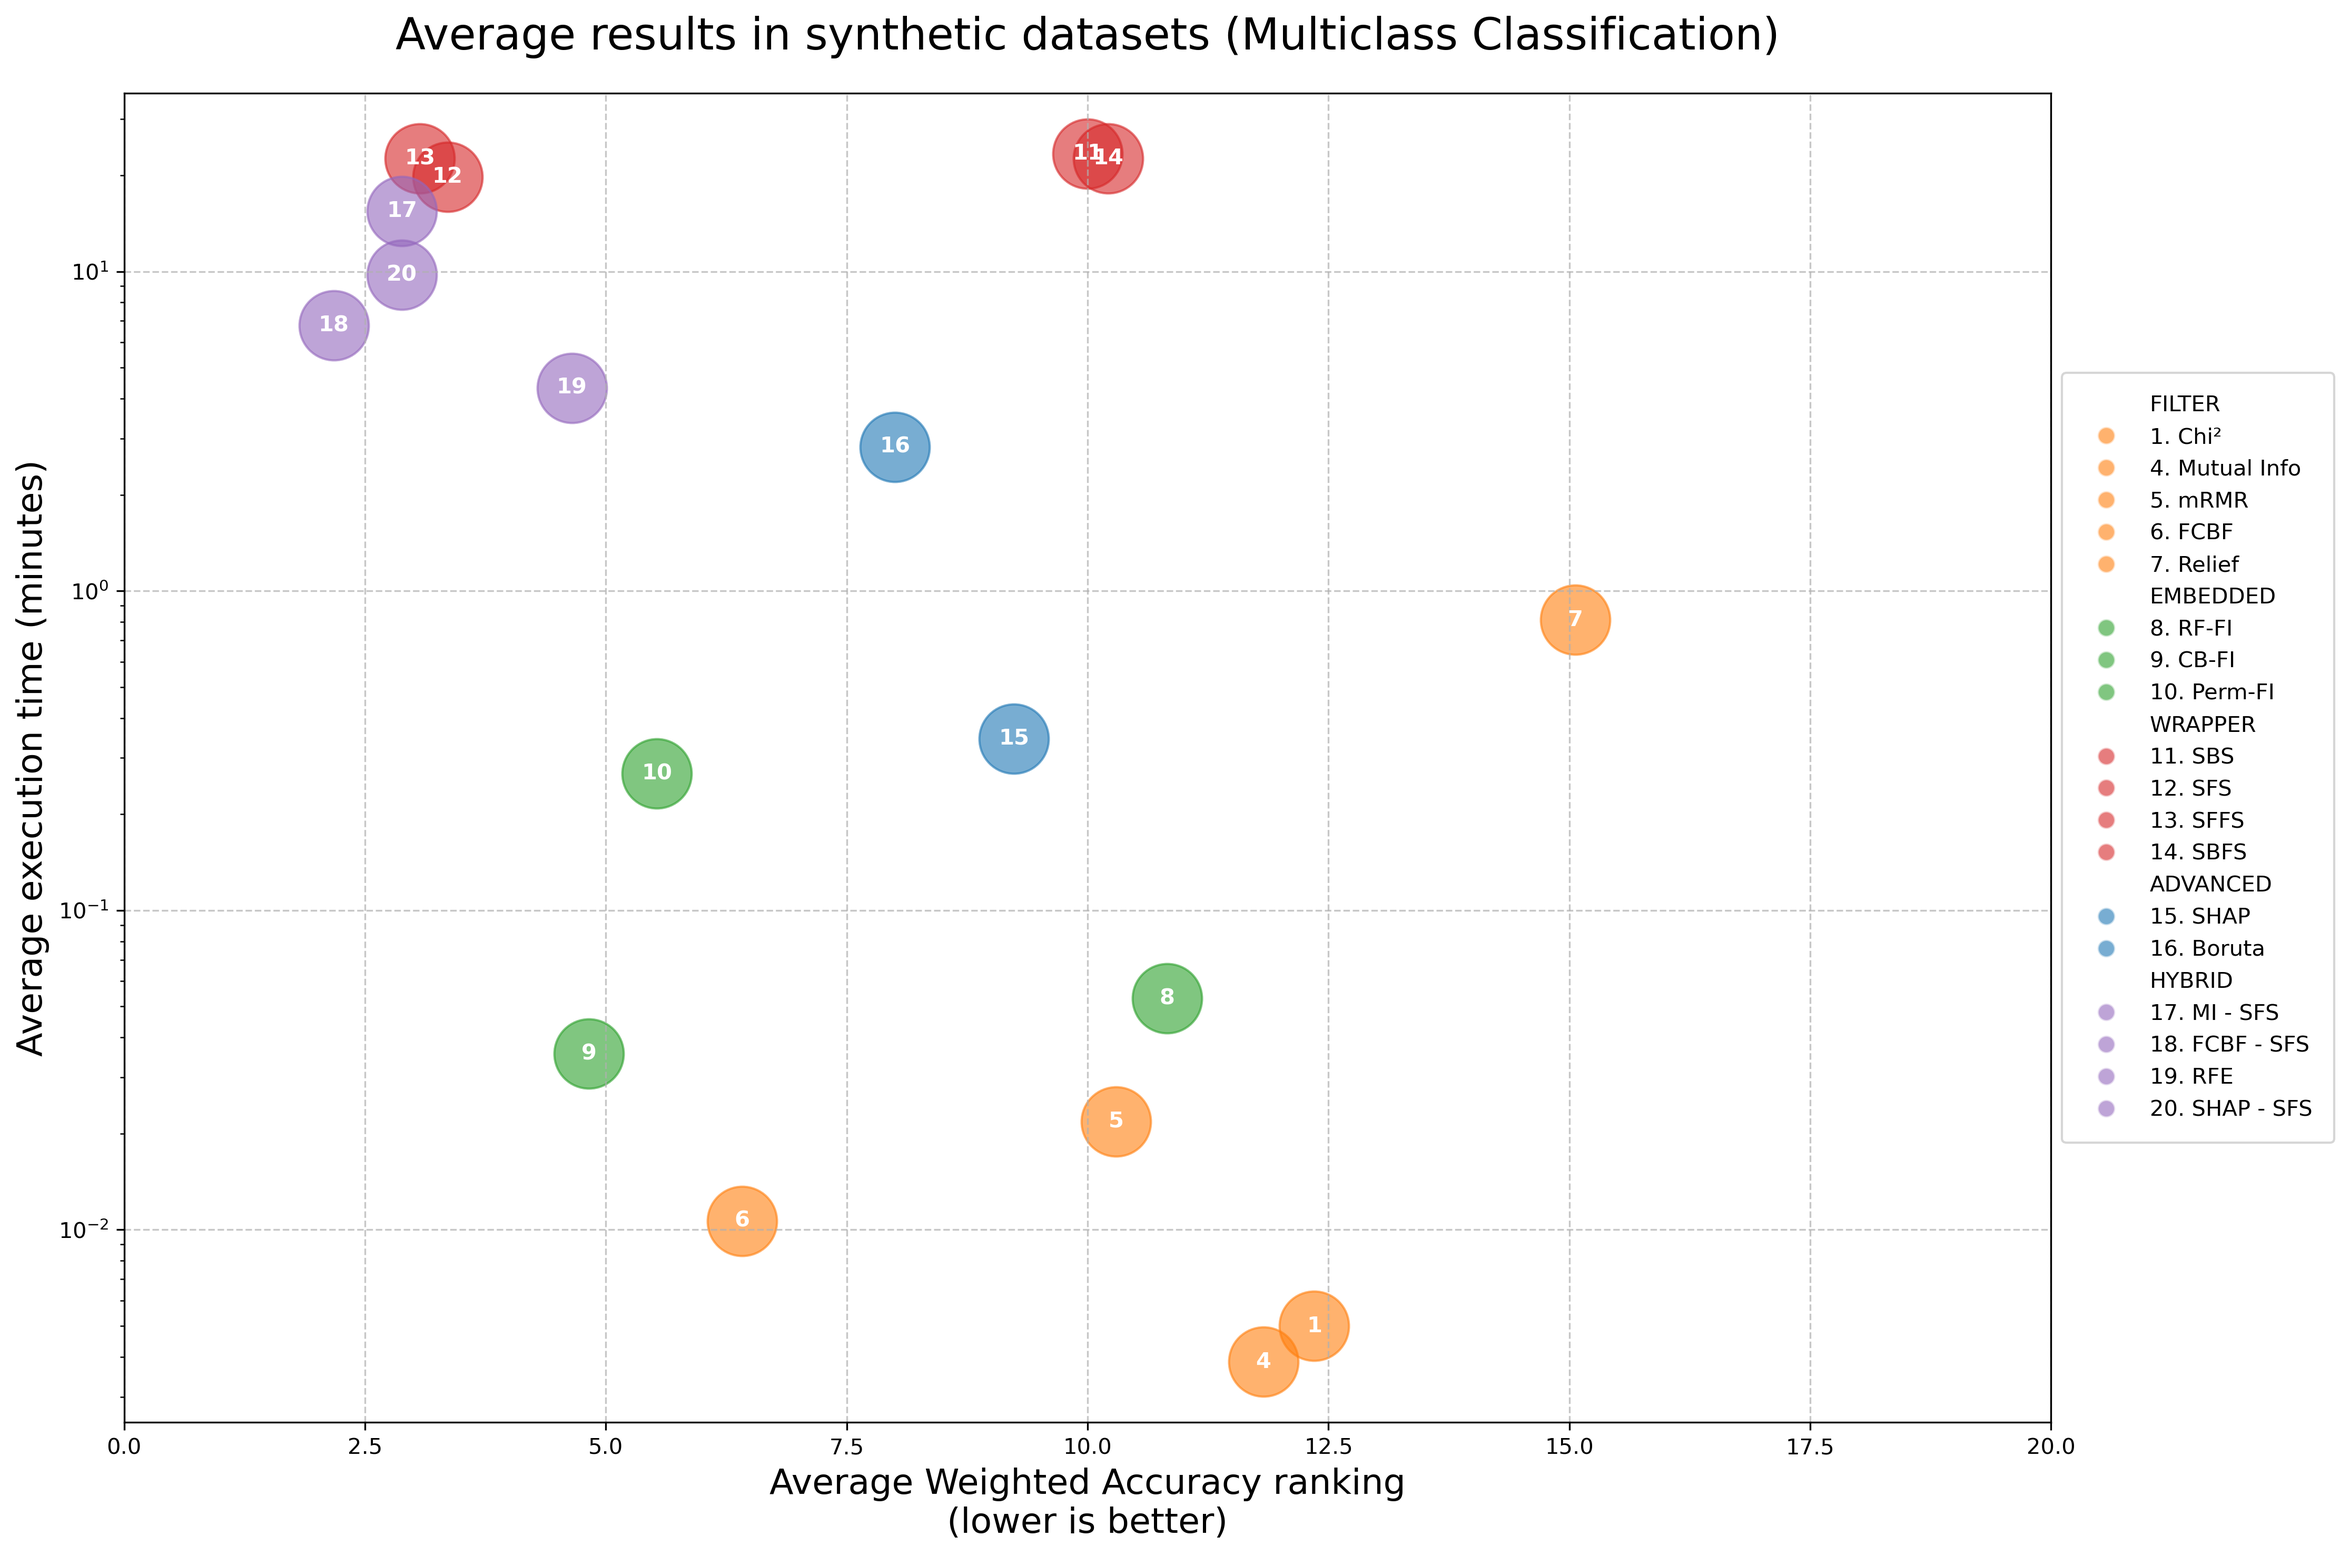
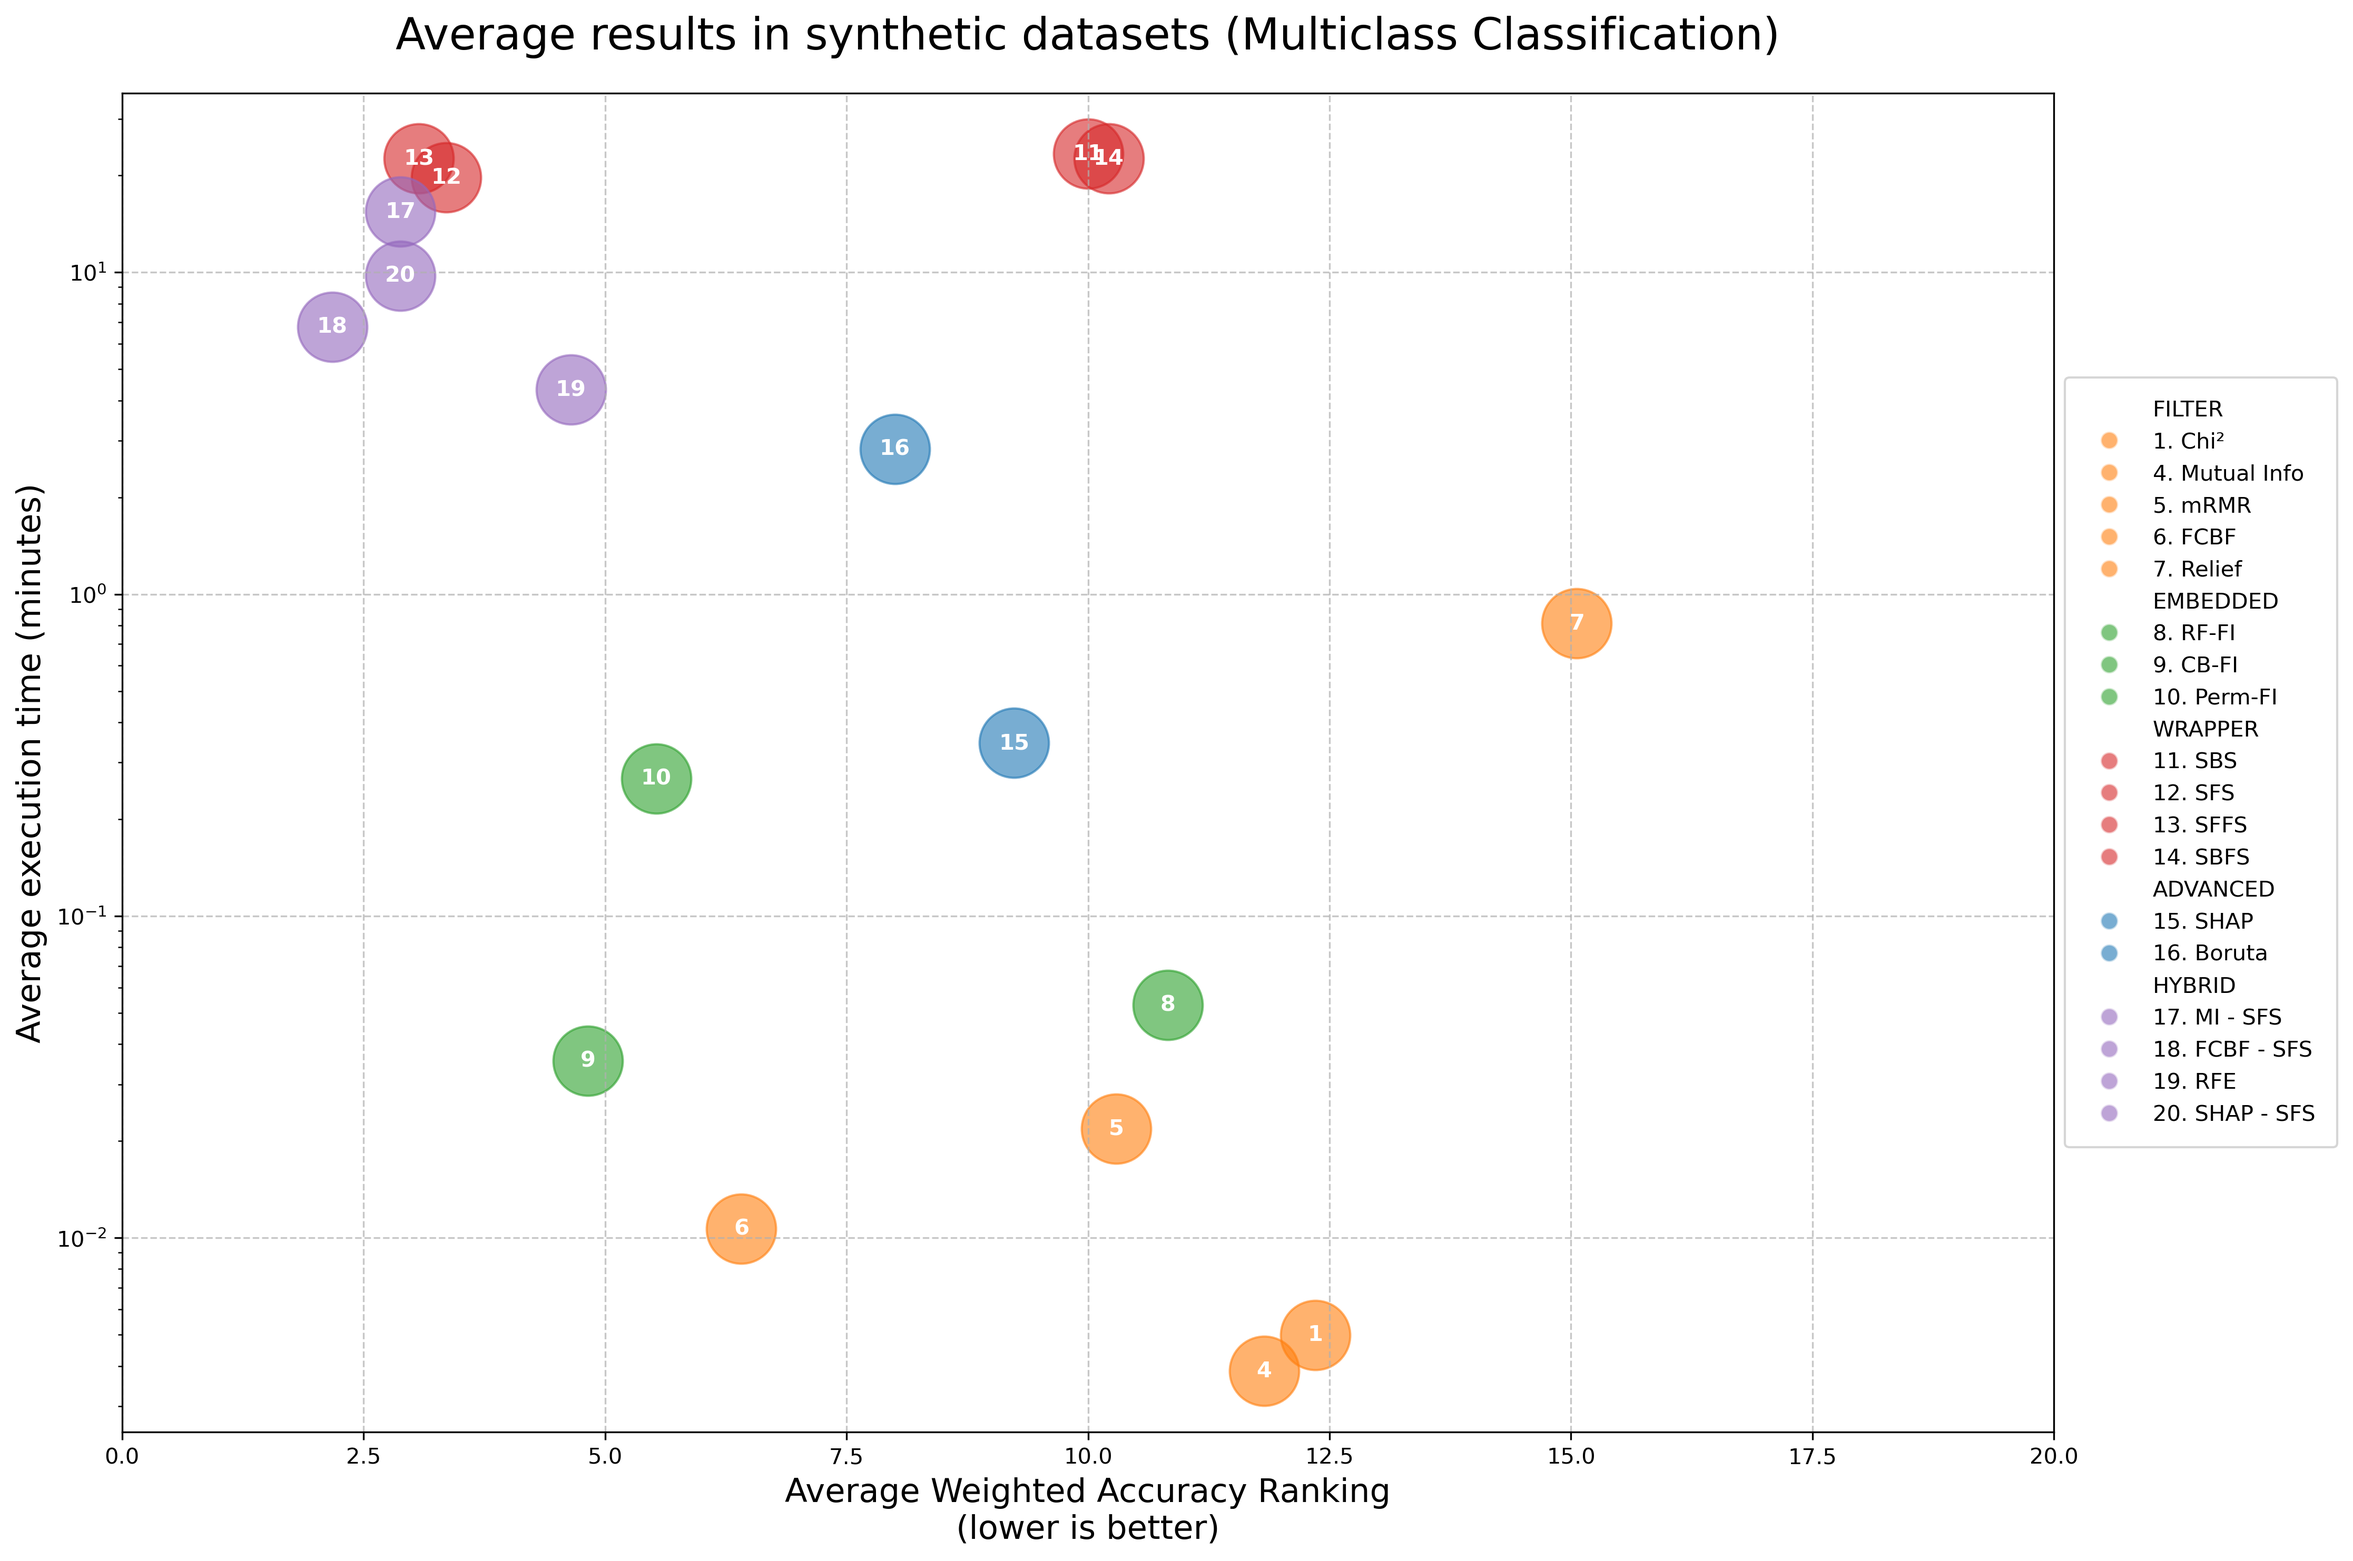
updated plots

diff --git a/utils/utils_results_and_plots.py b/utils/utils_results_and_plots.py
@@ -453,8 +453,8 @@ def create_real_world_plot(results, METHOD_ORDER, FAMILY_ORDER, METHOD_FAMILIES,
              borderpad=1,
              labelspacing=0.5)
     
-    ax.set_xlabel('Average Percentage Score Error\n(lower is better)', fontsize=16)
-    ax.set_ylabel('Average number of selected features', fontsize=16)
+    ax.set_xlabel('Average Percentage Score Error\n(lower is better)', fontsize=15)
+    ax.set_ylabel('Average number of selected features', fontsize=15)
     ax.set_title(f'Average results in real-world datasets{title_suffix}', pad=20, fontsize=20)
     ax.grid(True, linestyle='--', alpha=0.7)
     
@@ -560,8 +560,8 @@ def create_synthetic_plot(results, METHOD_ORDER, FAMILY_ORDER, METHOD_FAMILIES, 
              borderpad=1,
              labelspacing=0.5)
     
-    ax.set_xlabel('Average Weighted Accuracy ranking\n(lower is better)', fontsize=16)  # Increase fontsize
-    ax.set_ylabel('Average execution time (minutes)', fontsize=16)  # Increase fontsize
+    ax.set_xlabel('Average Weighted Accuracy Ranking\n(lower is better)', fontsize=15)  # Increase fontsize
+    ax.set_ylabel('Average execution time (minutes)', fontsize=15)  # Increase fontsize
     ax.set_title(f'Average results in synthetic datasets{title_suffix}', pad=20, fontsize=20)  # Increase fontsize
     ax.grid(True, linestyle='--', alpha=0.7)
     ax.set_xlim(0, 20)
